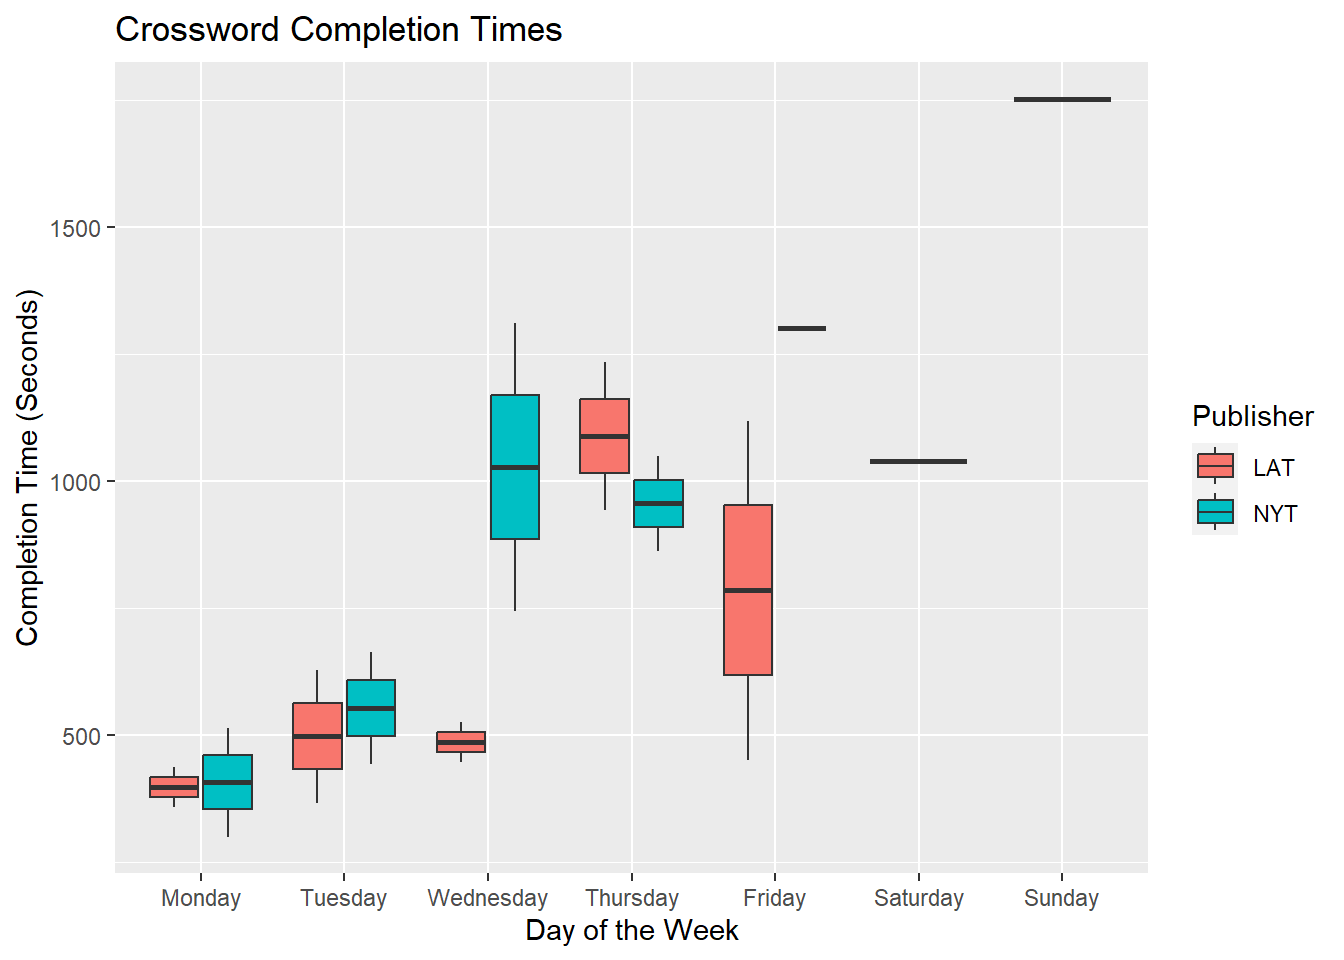
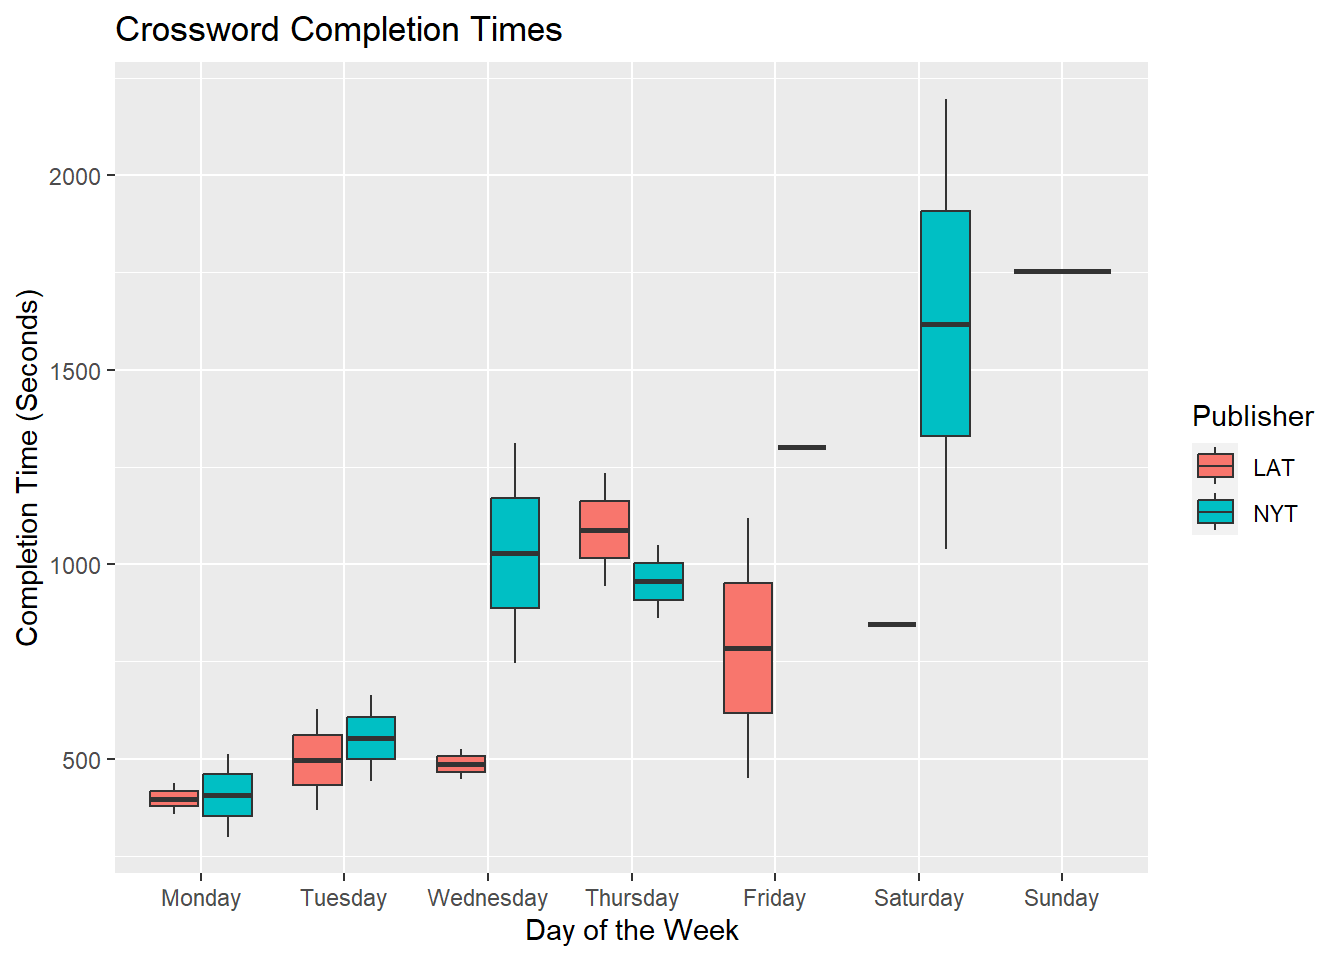
update crossword times

diff --git a/posts/crossword_times/crossword_times.html b/posts/crossword_times/crossword_times.html
@@ -193,12 +193,12 @@ code span.wa { color: #60a0b0; font-weight: bold; font-style: italic; } /* Warni
 <section id="introduction" class="level2">
 <h2 class="anchored" data-anchor-id="introduction">Introduction</h2>
 <p><a href="https://downforacross.com/">Down For Across</a> is a website which allows you to solve user-uploaded crosswords solo or with friends.</p>
-<p>The crosswords published in major American newspapers often differ in difficulty according to the day of the week. For example, the New York Times’ Monday puzzles are the easiest and their Saturday puzzles are the hardest. The Sunday puzzles have easy clues but a large grid, and the Thursday puzzles have some unique gimmick.</p>
+<p>The crosswords published in major American newspapers often differ in difficulty according to the day of the week. For example, the <a href="https://www.nytimes.com/guides/crosswords/how-to-solve-a-crossword-puzzle">New York Times’ guide</a> explains that their Monday puzzles are the easiest and their Saturday puzzles the hardest. Meanwhile, the Sunday puzzles have easy clues but a large grid, and the Thursday puzzles have some unique gimmick.</p>
 <p>I’ve started keeping track of my solo completion times the New York Times and Los Angeles Times crosswords. Below is a boxplot grouped by the publisher and day of the week.</p>
 </section>
 <section id="boxplot" class="level2">
 <h2 class="anchored" data-anchor-id="boxplot">Boxplot</h2>
-<p><code>lubridate</code> provides convenient date and time parsing functions like <code>ms</code>. <code>weekdays(as.Date('1970-01-01') + 4:10)</code> is a nice trick to produce a character vector with the names of the week, beginning with Monday.<a href="#fn1" class="footnote-ref" id="fnref1" role="doc-noteref"><sup>1</sup></a></p>
+<p><code>lubridate</code> provides convenient date and time parsing functions like <code>ms</code>. <code>weekdays(as.Date('1970-01-01') + 4:10)</code> is a nice trick to produce a character vector with the names of the week, beginning with Monday.<a href="#fn1" class="footnote-ref" id="fnref1" role="doc-noteref"><sup>1</sup></a><a href="#fn2" class="footnote-ref" id="fnref2" role="doc-noteref"><sup>2</sup></a></p>
 <div class="cell">
 <div class="sourceCode cell-code" id="cb1"><pre class="sourceCode r code-with-copy"><code class="sourceCode r"><span id="cb1-1"><a href="#cb1-1" aria-hidden="true" tabindex="-1"></a><span class="fu">read_csv</span>(<span class="st">"crossword_times.csv"</span>, <span class="at">col_types =</span> <span class="st">"ccD"</span>) <span class="sc">|&gt;</span></span>
 <span id="cb1-2"><a href="#cb1-2" aria-hidden="true" tabindex="-1"></a>  <span class="fu">ggplot</span>(<span class="fu">aes</span>(<span class="at">x =</span> <span class="fu">factor</span>(<span class="fu">weekdays</span>(<span class="fu">as.Date</span>(Date)), </span>
@@ -207,12 +207,13 @@ code span.wa { color: #60a0b0; font-weight: bold; font-style: italic; } /* Warni
 <span id="cb1-5"><a href="#cb1-5" aria-hidden="true" tabindex="-1"></a>             <span class="at">fill =</span> Publisher)) <span class="sc">+</span></span>
 <span id="cb1-6"><a href="#cb1-6" aria-hidden="true" tabindex="-1"></a>  <span class="fu">geom_boxplot</span>() <span class="sc">+</span></span>
 <span id="cb1-7"><a href="#cb1-7" aria-hidden="true" tabindex="-1"></a>  <span class="fu">labs</span>(<span class="at">title =</span> <span class="st">"Crossword Completion Times"</span>, </span>
-<span id="cb1-8"><a href="#cb1-8" aria-hidden="true" tabindex="-1"></a>         <span class="at">x =</span> <span class="st">"Day of the Week"</span>,</span>
-<span id="cb1-9"><a href="#cb1-9" aria-hidden="true" tabindex="-1"></a>         <span class="at">y =</span> <span class="st">"Completion Time (Seconds)"</span>)</span></code><button title="Copy to Clipboard" class="code-copy-button"><i class="bi"></i></button></pre></div>
+<span id="cb1-8"><a href="#cb1-8" aria-hidden="true" tabindex="-1"></a>           <span class="at">x =</span> <span class="st">"Day of the Week"</span>,</span>
+<span id="cb1-9"><a href="#cb1-9" aria-hidden="true" tabindex="-1"></a>           <span class="at">y =</span> <span class="st">"Completion Time (Seconds)"</span>)</span></code><button title="Copy to Clipboard" class="code-copy-button"><i class="bi"></i></button></pre></div>
 <div class="cell-output-display">
 <p><img src="crossword_times_files/figure-html/boxplot-1.png" class="img-fluid" width="672"></p>
 </div>
 </div>
+<p>One interesting observation is that it looks like the Los Angeles Times’ Wednesday puzzle is about as hard as a Tuesday puzzle, while the New York Times’ Wednesday is more like a Thursday.</p>
 
 
 </section>
@@ -221,7 +222,8 @@ code span.wa { color: #60a0b0; font-weight: bold; font-style: italic; } /* Warni
 <div id="quarto-appendix" class="default"><section id="footnotes" class="footnotes footnotes-end-of-document" role="doc-endnotes"><h2 class="anchored quarto-appendix-heading">Footnotes</h2>
 
 <ol>
-<li id="fn1"><p>January 1st, 1970 was, inconveniently, a Thursday, but it is used as “day zero” in computing.<a href="#fnref1" class="footnote-back" role="doc-backlink">↩</a></p></li>
+<li id="fn1"><p>January 1st, 1970 is used as “day zero” in computing. Inconveniently, it was a Thursday.<a href="#fnref1" class="footnote-back" role="doc-backlink">↩</a></p></li>
+<li id="fn2"><p>I’m accustomed to thinking of the week as beginning with Sunday, but for the purposes of crossword difficulty analysis, Monday is better.<a href="#fnref2" class="footnote-back" role="doc-backlink">↩</a></p></li>
 </ol>
 </section></div></main> <!-- /main -->
 <script id="quarto-html-after-body" type="application/javascript">

diff --git a/posts.html b/posts.html
@@ -143,7 +143,7 @@ ul.task-list li input[type="checkbox"] {
 
 <div class="quarto-listing quarto-listing-container-default" id="listing-listing">
 <div class="list quarto-listing-default">
-<div class="quarto-post image-right" data-index="0" data-listing-date-sort="1672635600000" data-listing-file-modified-sort="1672692194758" data-listing-reading-time-sort="1.32">
+<div class="quarto-post image-right" data-index="0" data-listing-date-sort="1672635600000" data-listing-file-modified-sort="1672708745164" data-listing-reading-time-sort="1.615">
 <div class="body">
 <a href="./posts/crossword_times/crossword_times.html">
 <h3 class="no-anchor listing-title">
